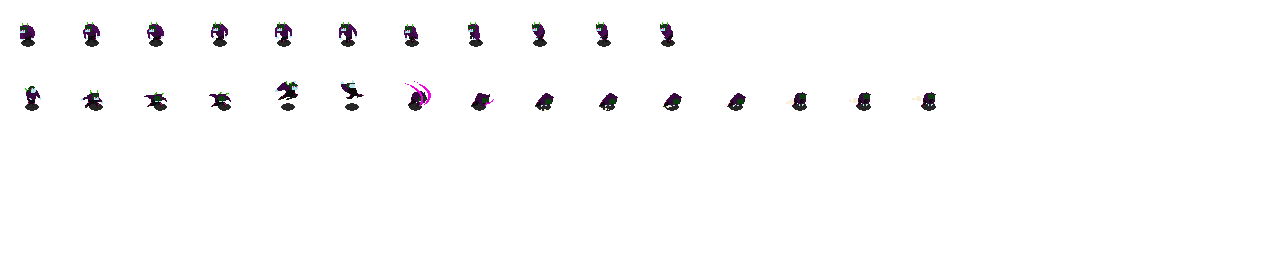
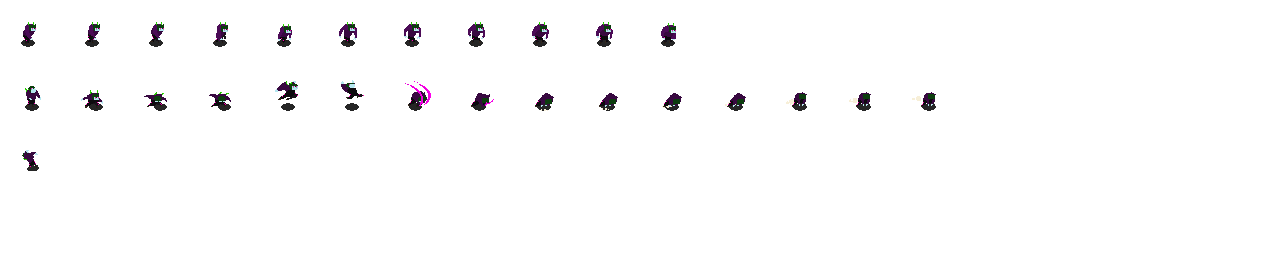
Hurt Stalker

diff --git a/HolaSDL/EnemyStalker.cpp b/HolaSDL/EnemyStalker.cpp
@@ -52,8 +52,10 @@ void EnemyStalker::loadAnimations()
 	Tileset* tileset = ResourceManager::getInstance()->getEnemyTileset(1);
 	Animation* run = AnimationParser::parseAnimation(tileset, animationPath, "Run", this);
 	Animation* attack = AnimationParser::parseAnimation(tileset, animationPath, "Attack", this, 0, 0, false, 0.2);
+	Animation* hurt = AnimationParser::parseAnimation(tileset, animationPath, "Hurt", this, 0, 0, false);
 
 	animations.emplace("RUN", run);
 	animations.emplace("ATTACK", attack);
+	animations.emplace("HURT", hurt);
 }
 

diff --git a/HolaSDL/StalkerAnimationComponent.cpp b/HolaSDL/StalkerAnimationComponent.cpp
@@ -34,6 +34,10 @@ void StalkerAnimationComponent::receiveMessage(Message* msg)
 			gameObject->changeCurrentAnimation("ATTACK");
 			gameObject->getCurrentAnimation()->startAnimation();
 			break;
+		case HURT:
+			gameObject->changeCurrentAnimation("HURT");
+			gameObject->getCurrentAnimation()->startAnimation();
+			break;
 	}
 }
 

diff --git a/HolaSDL/DamageableEnemyComponent.cpp b/HolaSDL/DamageableEnemyComponent.cpp
@@ -19,6 +19,8 @@ void DamageableEnemyComponent::receiveMessage(Message* msg)
 	if (msg->id == MC_ATTACK_DAMAGE) {
 		receiveDamage("NORMAL_ATTACK", static_cast<MCAttackDamage*>(msg)->damage);
 		gameObject->setInvincibility(true);
+		Message msg(HURT);
+		gameObject->sendMessage(&msg);
 	}
 }
 

diff --git a/HolaSDL/Message.h b/HolaSDL/Message.h
@@ -37,6 +37,9 @@ enum MessageId {
 	ATTACK2_BOTRIGHT,
 	ATTACK3_BOTRIGHT,
 
+	//GameObjects
+	HURT,
+
 	//Gunner Shot
 	SHOT_LEFT,
 	SHOT_RIGHT,
